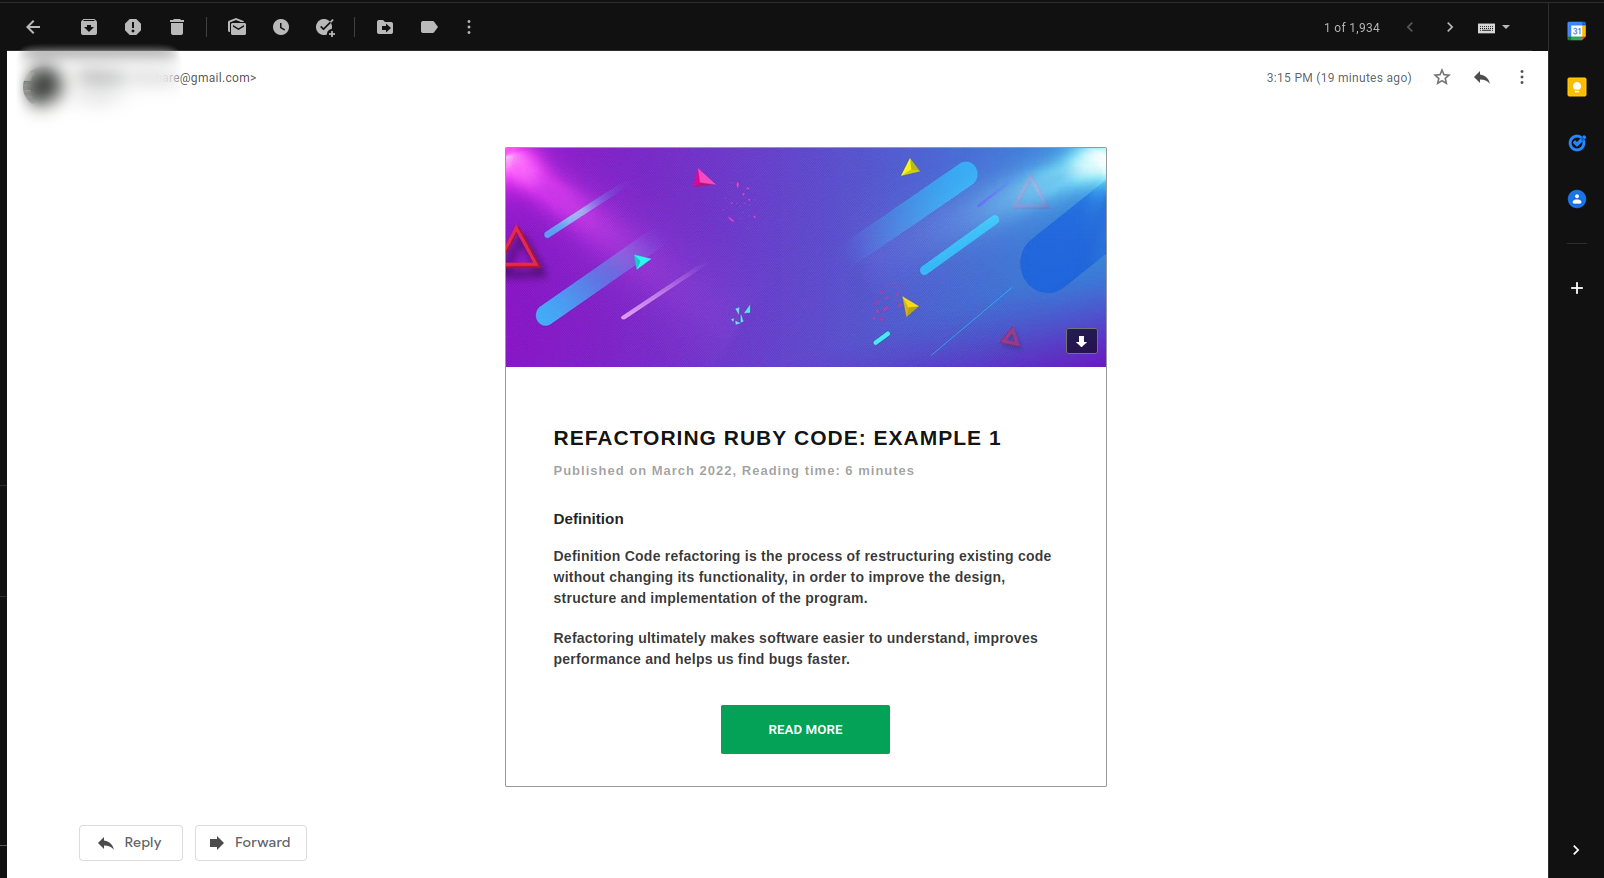
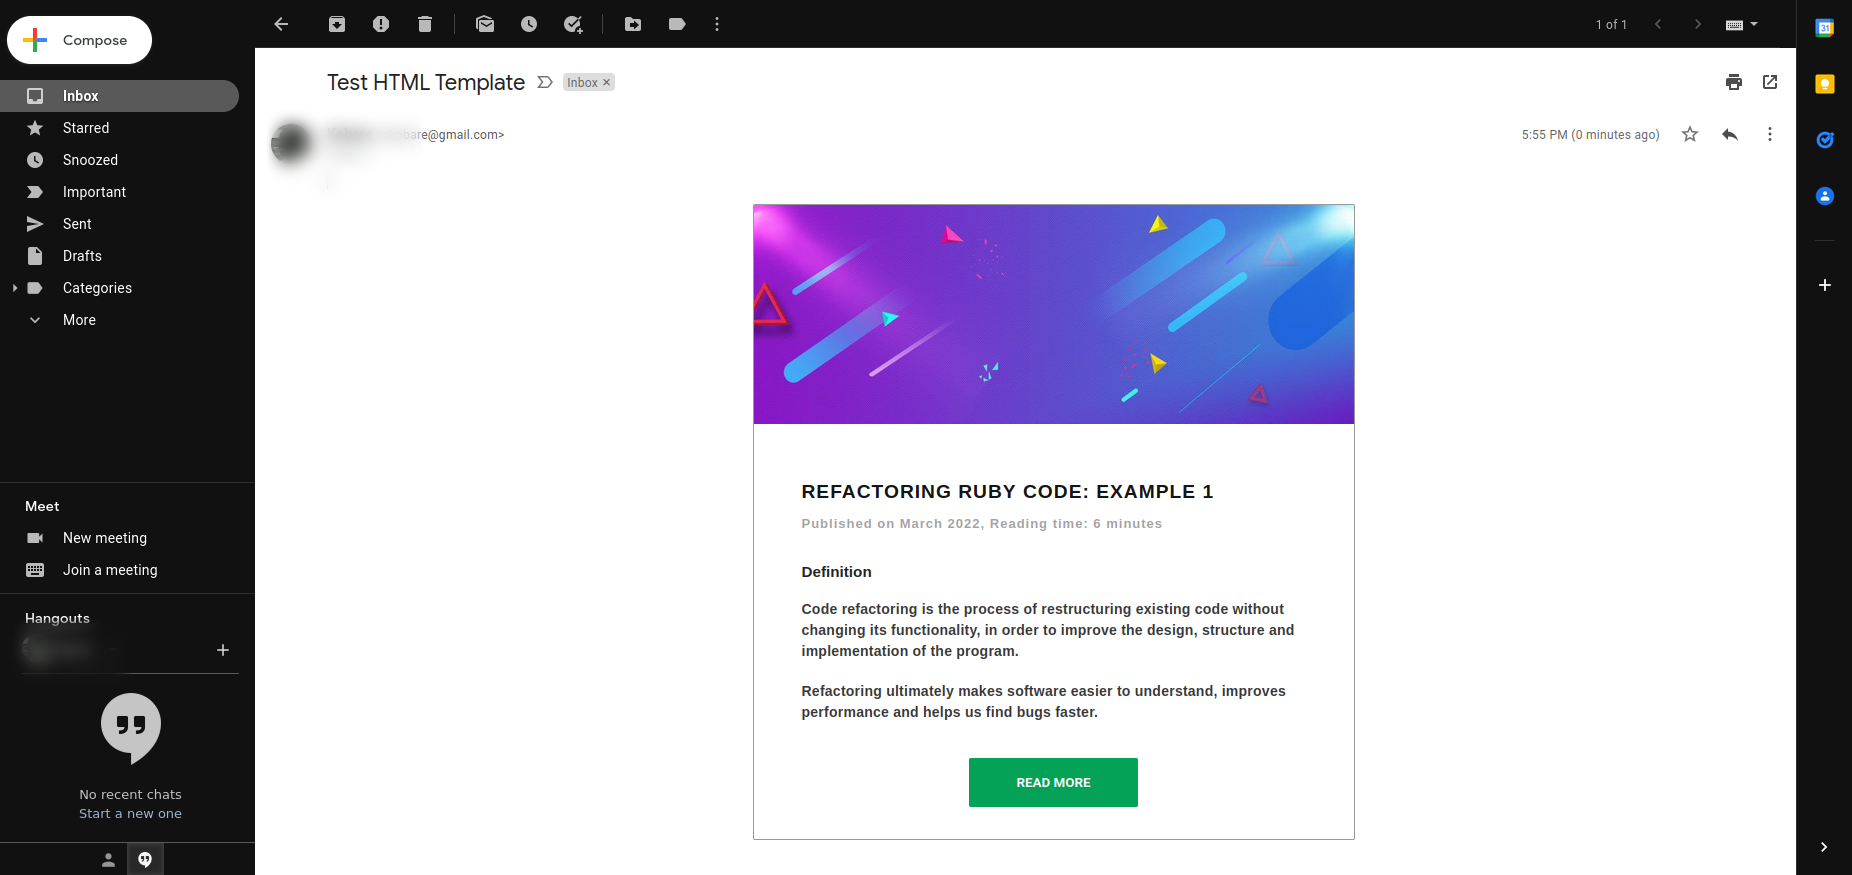
Edited a post

Changed region(s): [[0.0, 0.0, 0.9975, 1.0], [0.3117, 0.1543, 0.7481, 0.9257], [0.8416, 0.1234, 0.8728, 0.1851]]

diff --git a/category/more-topics/operating-systems/ubuntu/202207/sending-html-emails-on-linux.html b/category/more-topics/operating-systems/ubuntu/202207/sending-html-emails-on-linux.html
@@ -1034,9 +1034,7 @@ root:your_account@gmail.com:smtp.gmail.com:587</code></pre></figure>
       
       <span class="nt">&lt;small</span> <span class="na">class=</span><span class="s">"body__meta"</span> <span class="na">style=</span><span class="s">"display: inline-block; margin-bottom: 0.728rem; font-size: 0.8125rem; font-weight: 600; letter-spacing: 1px; color: rgba(20, 20, 20, 0.4);"</span><span class="nt">&gt;</span>Published on March 2022, Reading time: 6 minutes<span class="nt">&lt;/small&gt;</span>
       <span class="nt">&lt;h3&gt;</span>Definition<span class="nt">&lt;/h3&gt;</span>
-      <span class="nt">&lt;p</span> <span class="na">class=</span><span class="s">"body__text"</span> <span class="na">style=</span><span class="s">"margin-top: 0; margin-bottom: 1.2rem; font-size: 0.875rem; font-weight: 600; letter-spacing: 0.015625rem; color: rgba(20, 20, 20, 0.85);"</span><span class="nt">&gt;</span>Definition
-
-Code refactoring is the process of restructuring existing code without changing its functionality, in order to improve the design, structure and implementation of the program.
+      <span class="nt">&lt;p</span> <span class="na">class=</span><span class="s">"body__text"</span> <span class="na">style=</span><span class="s">"margin-top: 0; margin-bottom: 1.2rem; font-size: 0.875rem; font-weight: 600; letter-spacing: 0.015625rem; color: rgba(20, 20, 20, 0.85);"</span><span class="nt">&gt;</span>Code refactoring is the process of restructuring existing code without changing its functionality, in order to improve the design, structure and implementation of the program.
 <span class="nt">&lt;/p&gt;</span>
       
       <span class="nt">&lt;p</span> <span class="na">class=</span><span class="s">"body__text"</span> <span class="na">style=</span><span class="s">"margin-top: 0; margin-bottom: 1.2rem; font-size: 0.875rem; font-weight: 600; letter-spacing: 0.015625rem; color: rgba(20, 20, 20, 0.85);"</span><span class="nt">&gt;</span>Refactoring ultimately makes software easier to understand, improves performance and helps us find bugs faster.<span class="nt">&lt;/p&gt;</span>
@@ -1061,7 +1059,7 @@ Code refactoring is the process of restructuring existing code without changing 
 <p><br />
 The recepient should receive this mail:</p>
 
-<p><img class="zoom-on-hover mobile-image" srcset="/assets/img/posts/html_email_gmail.png 2.3x, /assets/img/posts/html_email_gmail.png 2.3x" /></p>
+<p><img class="zoom-on-hover mobile-image" srcset="/assets/img/posts/html_email_gmail.png 2.5x, /assets/img/posts/html_email_gmail.png 2.5x" /></p>
 
 <p><br />
 You could set this up on your server and have your apps automatically send info like news letters, welcome messages when users sign up etc.</p>
